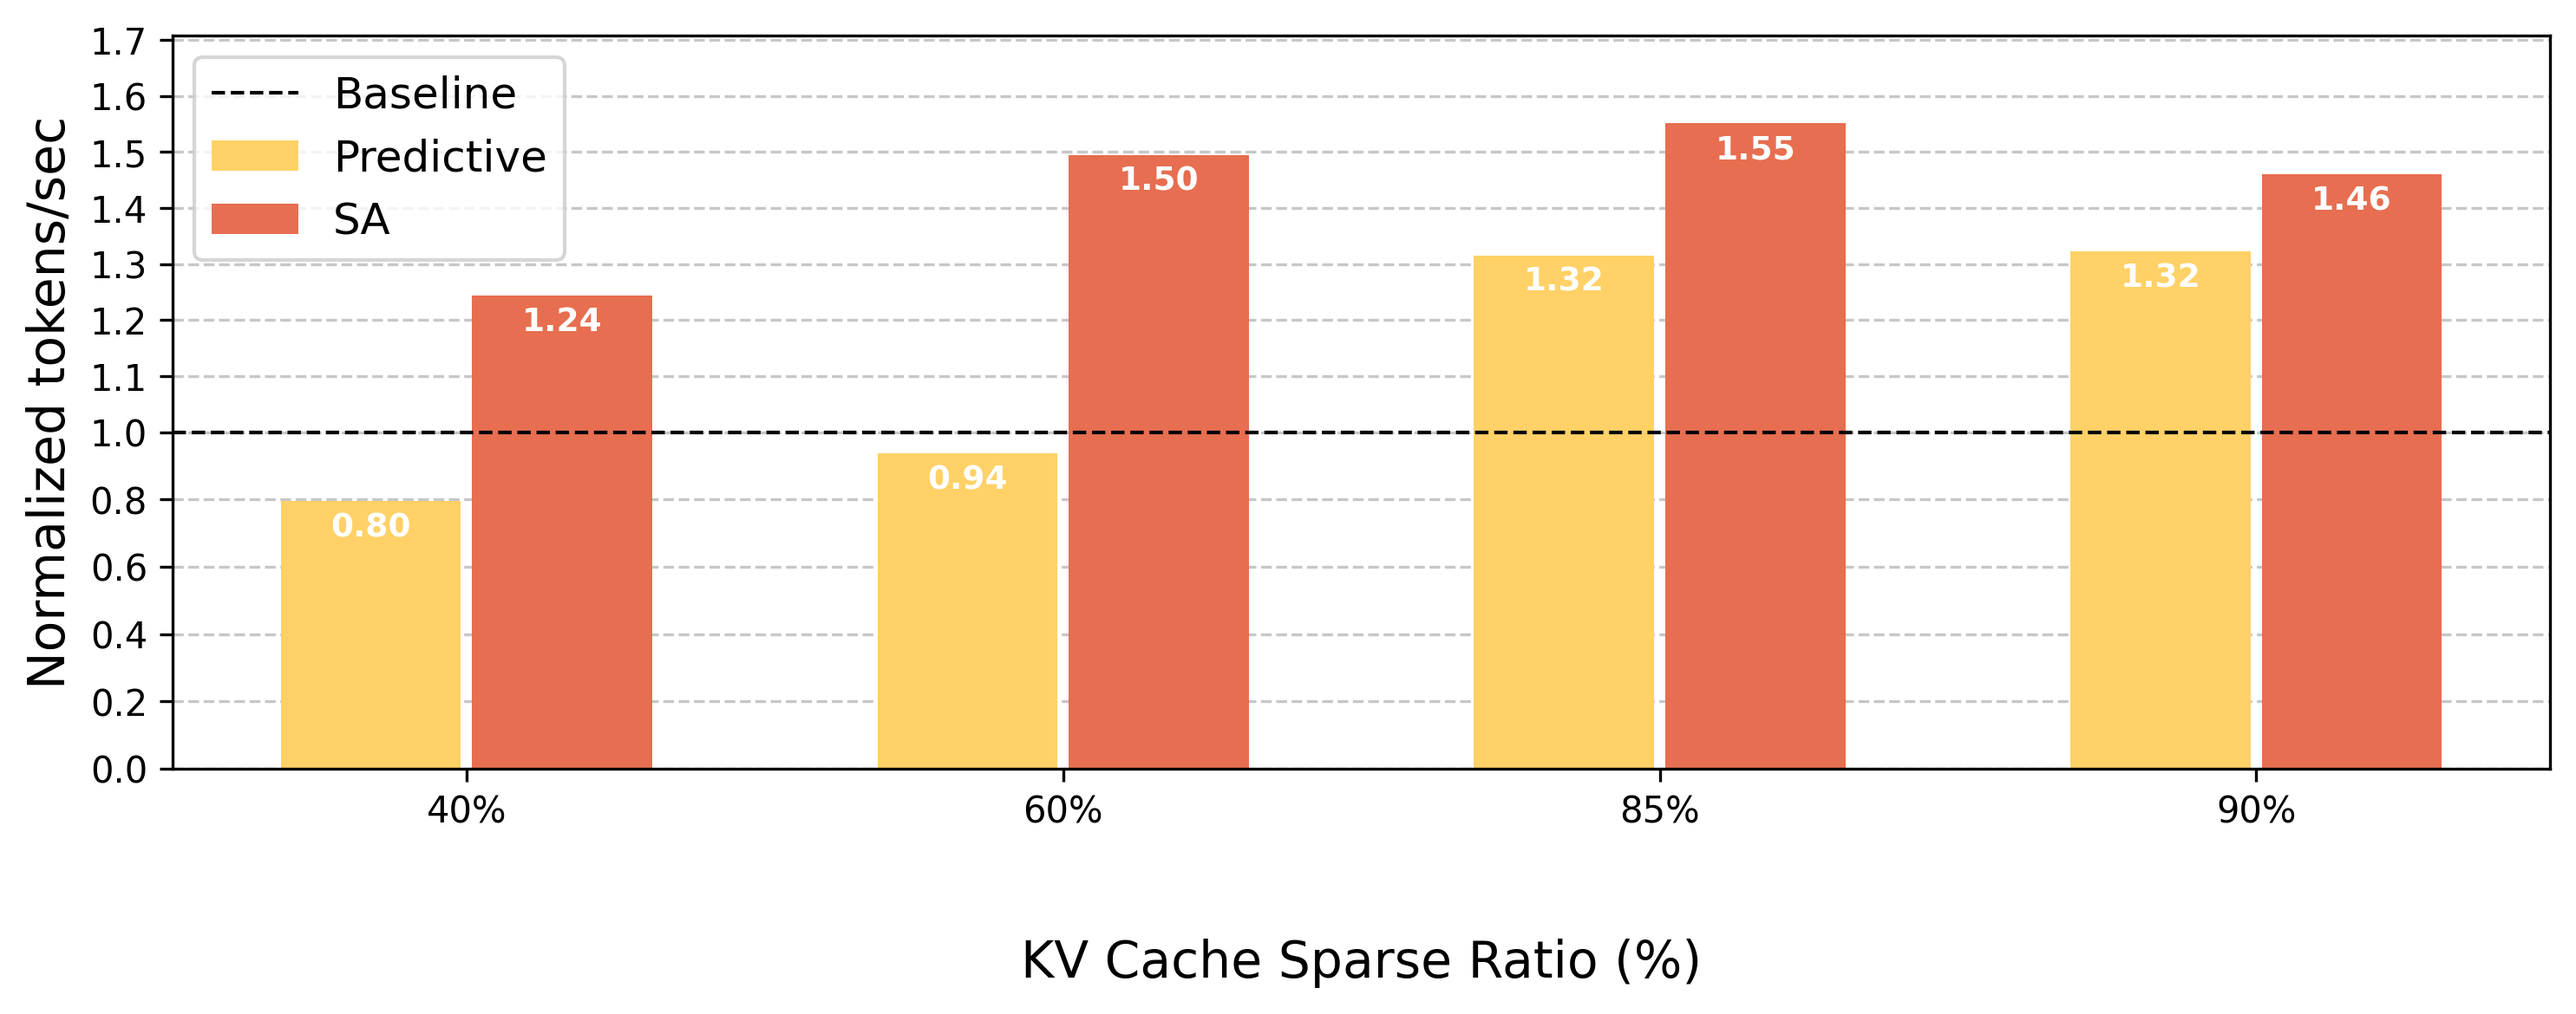
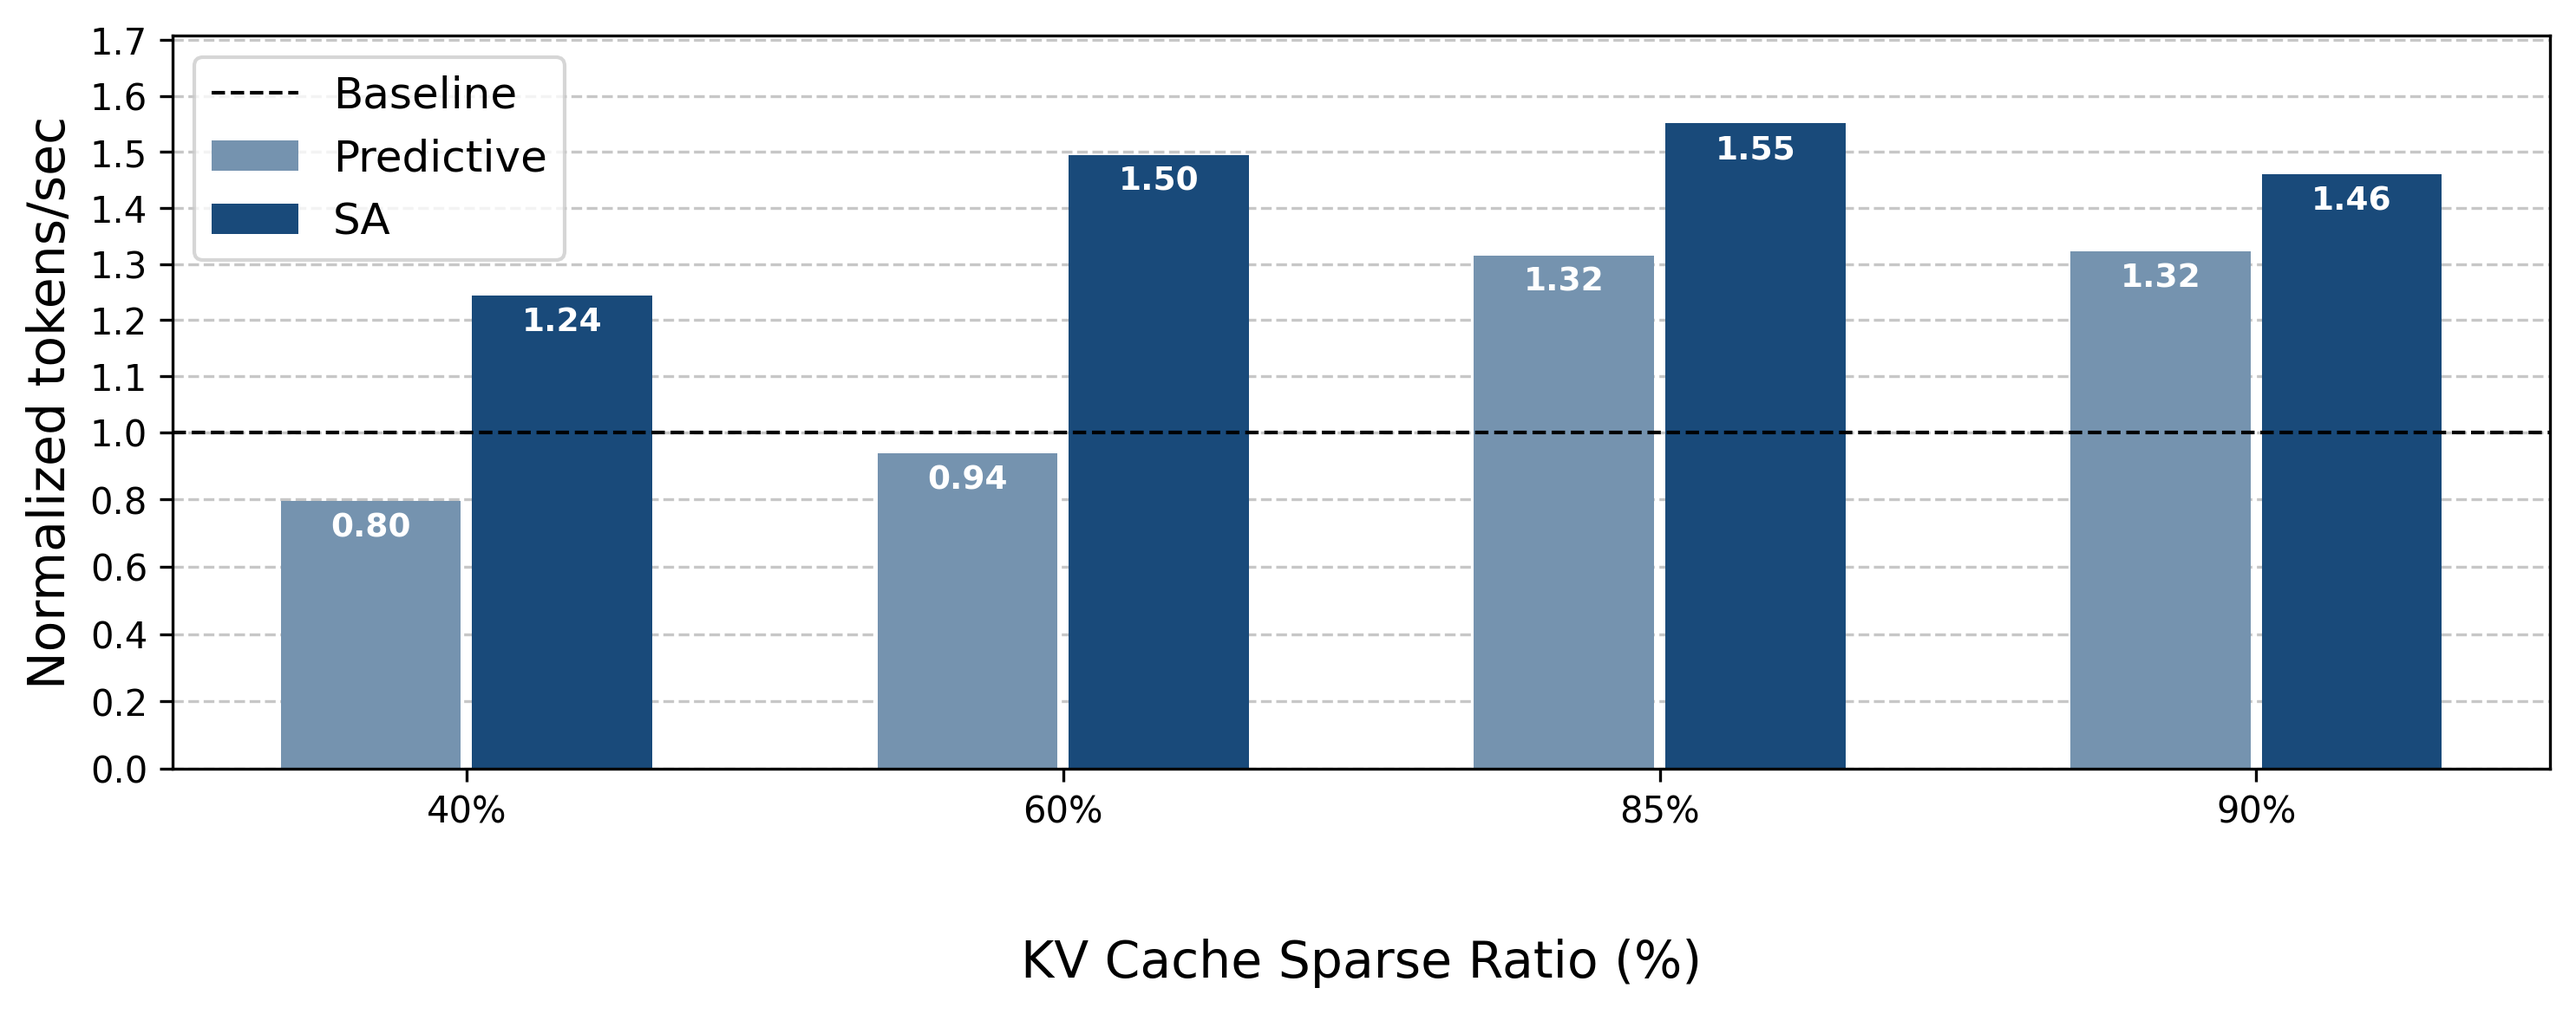
update color

diff --git a/plot_scripts/plot_bars.py b/plot_scripts/plot_bars.py
@@ -101,10 +101,10 @@ if __name__ == "__main__":
     # choose colors automatically
     colors = {
         'baseline': '#ffb6a3',  # Black for baseline
-        'predictive': '#ffd166',  # Blue
-        'sa': '#e76e50',  # Green
-        'lookahead': '#f4a462',  # Orange
-        'best': '#f28482',  # Red
+        'predictive': '#7593af',  # Blue
+        'sa': '#194a7a',  # Green
+        'lookahead': '#7593af',  # Orange
+        'best': '#4b86b4',  # Red
     }
 
     
